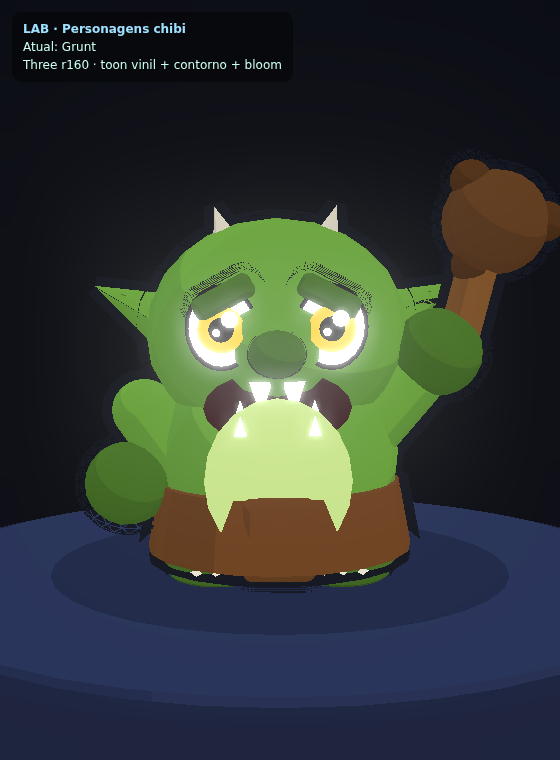
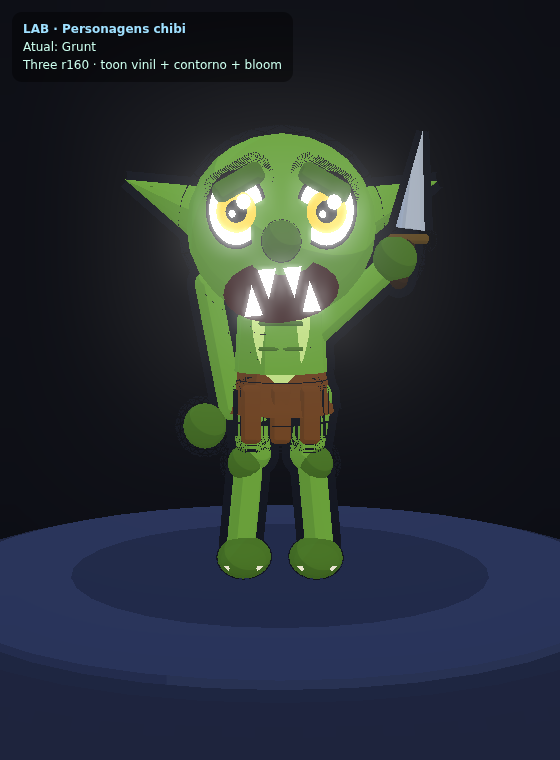
refactor(lab): Grunt mais magrelo (goblin esguio)
Feedback: estava atarracado/barril. Refeito como goblin esquálido: cabeça
grande sobre tronco em coluna fina (com costelas/peito claro), membros longos
e finos com joelhos nodosos, tanga baixa, pés compridos com garras e adaga
enferrujada erguida. Câmera reenquadrada p/ o corpo mais alto.

Verificado headless: ready, webgl2, ERROS=[]. Não toca bastion-rush/index.html.

https://claude.ai/code/session_01FsKks2LfpRXbTiAL1QZHxj

diff --git a/lab/monsters.js b/lab/monsters.js
@@ -25,87 +25,99 @@ function fangMouth(width = 0.5, color = 0x3a0d12, fangColor = 0xfdfdff) {
   return g;
 }
 
-// ════════════════════════════ GRUNT (goblin atarracado) ════════════════════════════
+// ════════════════════════════ GRUNT (goblin magrelo/esquálido) ════════════════════════════
 export function buildGrunt(opts = {}) {
   const SKIN = opts.skin ?? 0x74b03e;   // verde saturado
   const SKIN2 = opts.skin2 ?? 0x4f7d27;  // sombra/verde escuro
-  const BELLY = opts.belly ?? 0xc8e38c;  // barriga clara
+  const BELLY = opts.belly ?? 0xbfdc84;  // barriga/peito claro
   const CLOTH = opts.cloth ?? 0x7a4a22;  // tanga
-  const WOOD = 0x8a5a2b;
+  const STEEL = 0xb8c2cc;
 
   const model = new THREE.Group();
-  const HEADR = 0.6;
-  const HEADY = 1.28;
+  const HEADR = 0.5;
+  const HEADY = 1.82;   // cabeça grande no alto de um corpo magro e alongado
 
-  // ── pés/pernas atarracadas ──
+  // ── pernas finas, longas e tortas (com joelho) ──
   for (const sx of [-1, 1]) {
-    const foot = blob(0.28, 0.2, 0.34, SKIN2); foot.position.set(sx * 0.3, 0.16, 0.08); model.add(foot);
-    // dedões (garras)
+    const shin = capsule(0.08, 0.4, SKIN); shin.position.set(sx * 0.2, 0.34, 0.04);
+    shin.rotation.z = sx * 0.1; model.add(shin);
+    const thigh = capsule(0.095, 0.3, SKIN); thigh.position.set(sx * 0.17, 0.78, 0.02);
+    thigh.rotation.z = sx * -0.16; model.add(thigh);
+    const knee = ball(0.095, SKIN2); knee.position.set(sx * 0.2, 0.58, 0.05); model.add(knee);
+    // pé comprido com garras
+    const foot = blob(0.15, 0.1, 0.26, SKIN2); foot.position.set(sx * 0.2, 0.09, 0.12); model.add(foot);
     for (const k of [-1, 0, 1]) {
-      const toe = new THREE.Mesh(new THREE.ConeGeometry(0.05, 0.12, 4),
+      const toe = new THREE.Mesh(new THREE.ConeGeometry(0.04, 0.11, 4),
         new THREE.MeshBasicMaterial({ color: 0xe9e4d0, toneMapped: false }));
-      toe.position.set(sx * 0.3 + k * 0.09, 0.14, 0.4); toe.rotation.x = Math.PI / 2;
+      toe.position.set(sx * 0.2 + k * 0.08, 0.08, 0.32); toe.rotation.x = Math.PI / 2;
       toe.userData.noOutline = true; model.add(toe);
     }
   }
 
-  // ── corpo: barrigudo (ovo) ──
-  const body = blob(0.6, 0.56, 0.55, SKIN); body.position.y = 0.66; model.add(body);
-  const belly = new THREE.Mesh(new THREE.CircleGeometry(0.34, 20),
-    new THREE.MeshBasicMaterial({ color: BELLY, toneMapped: false }));
-  belly.scale.set(1, 1.15, 1); belly.position.set(0, 0.62, 0.56); belly.userData.noOutline = true; model.add(belly);
-  // tanga
-  const cloth = new THREE.Mesh(new THREE.CylinderGeometry(0.6, 0.66, 0.34, 20), vinyl(CLOTH));
-  cloth.position.y = 0.36; model.add(cloth);
-  const clothFlap = rbox(0.34, 0.4, 0.1, CLOTH, 0.05); clothFlap.position.set(0, 0.34, 0.56); model.add(clothFlap);
-
-  // ── braços curtos e grossos ──
-  const armL = capsule(0.16, 0.28, SKIN); armL.position.set(-0.58, 0.78, 0.06); armL.rotation.z = 0.6; model.add(armL);
-  const fistL = glove(0.21, SKIN2); fistL.position.set(-0.74, 0.54, 0.14); model.add(fistL);
-  // braço direito levantado com porrete
-  const armR = capsule(0.16, 0.3, SKIN); armR.position.set(0.56, 0.92, 0.08); armR.rotation.z = -0.7; model.add(armR);
-  const fistR = glove(0.22, SKIN2); fistR.position.set(0.78, 1.18, 0.12); model.add(fistR);
-
-  // porrete nodoso
-  const club = capsule(0.1, 0.7, WOOD); club.position.set(0.95, 1.5, 0.1); club.rotation.z = -0.25; model.add(club);
-  const head1 = ball(0.26, 0x6b4321); head1.position.set(1.06, 1.82, 0.1); model.add(head1);
-  for (const a of [0, 2.1, 4.2]) {
-    const knob = ball(0.1, 0x5a3719);
-    knob.position.set(1.06 + Math.cos(a) * 0.24, 1.82 + Math.sin(a) * 0.24, 0.12); model.add(knob);
+  // ── tanga puída baixa no quadril (deixa o abdômen magro à mostra) ──
+  const cloth = new THREE.Mesh(new THREE.CylinderGeometry(0.24, 0.3, 0.26, 16), vinyl(CLOTH));
+  cloth.position.y = 0.98; model.add(cloth);
+  for (const sx of [-1, 0, 1]) {
+    const rag = rbox(0.11, 0.3, 0.08, CLOTH, 0.03); rag.position.set(sx * 0.16, 0.86, 0.24); model.add(rag);
   }
 
-  // ── CABEÇA grande (chibi) ──
-  const head = ball(HEADR, SKIN); head.position.y = HEADY; head.scale.set(1.08, 0.96, 0.98); model.add(head);
+  // ── TRONCO: coluna FINA e ALTA (cintura magrela visível) ──
+  const torso = new THREE.Mesh(new THREE.CylinderGeometry(0.22, 0.26, 0.66, 18), vinyl(SKIN));
+  torso.position.set(0, 1.4, 0.05); model.add(torso);
+  const torsoTop = blob(0.25, 0.2, 0.23, SKIN); torsoTop.position.set(0, 1.66, 0.05); model.add(torsoTop);
+  // peito/abdômen claro alto e fino
+  const chest = new THREE.Mesh(new THREE.CircleGeometry(0.16, 18),
+    new THREE.MeshBasicMaterial({ color: BELLY, toneMapped: false }));
+  chest.scale.set(1, 2.4, 1); chest.position.set(0, 1.4, 0.28); chest.userData.noOutline = true; model.add(chest);
+  // costelinhas (linhas escuras)
+  for (const i of [0, 1, 2, 3]) {
+    const rib = rbox(0.24, 0.022, 0.04, SKIN2, 0.01); rib.position.set(0, 1.2 + i * 0.13, 0.28); model.add(rib);
+  }
+  // ombros ossudos pontudos
+  for (const sx of [-1, 1]) { const sh = ball(0.13, SKIN); sh.position.set(sx * 0.27, 1.66, 0.04); model.add(sh); }
+
+  // ── braços longos e finos ──
+  // esquerdo pendendo (quase até o joelho)
+  const armL = capsule(0.07, 0.66, SKIN); armL.position.set(-0.34, 1.2, 0.05);
+  armL.rotation.z = 0.2; model.add(armL);
+  const handL = glove(0.12, SKIN2); handL.position.set(-0.42, 0.78, 0.08); model.add(handL);
+  // direito erguido empunhando uma adaga enferrujada
+  const armR = capsule(0.07, 0.54, SKIN); armR.position.set(0.36, 1.42, 0.08);
+  armR.rotation.z = -0.85; model.add(armR);
+  const handR = glove(0.12, SKIN2); handR.position.set(0.62, 1.66, 0.12); model.add(handR);
+  // adaga (cabo + lâmina serrilhada)
+  const grip = capsule(0.05, 0.18, 0x3a2a1c); grip.position.set(0.66, 1.64, 0.12); grip.rotation.z = -0.2; model.add(grip);
+  const guard = rbox(0.22, 0.05, 0.08, 0x6b5224, 0.02); guard.position.set(0.69, 1.76, 0.12); model.add(guard);
+  const blade = new THREE.Mesh(new THREE.ConeGeometry(0.08, 0.5, 4), vinyl(STEEL));
+  blade.position.set(0.73, 2.06, 0.12); blade.rotation.z = -0.12; model.add(blade);
+
+  // ── CABEÇA grande (chibi) levemente projetada pra frente ──
+  const head = ball(HEADR, SKIN); head.position.set(0, HEADY, 0.08); head.scale.set(1.04, 0.96, 0.98); model.add(head);
 
   // orelhas pontudas enormes (silhueta!)
   for (const sx of [-1, 1]) {
-    const ear = cone(0.2, 0.6, SKIN, 14); ear.position.set(sx * 0.66, HEADY + 0.12, -0.05);
-    ear.rotation.z = sx * -1.15; ear.rotation.y = sx * 0.3; model.add(ear);
-    const earIn = cone(0.1, 0.4, SKIN2, 12); earIn.position.set(sx * 0.6, HEADY + 0.12, 0.02);
-    earIn.rotation.z = sx * -1.15; earIn.rotation.y = sx * 0.3; earIn.userData.noOutline = true; model.add(earIn);
+    const ear = cone(0.18, 0.62, SKIN, 14); ear.position.set(sx * 0.6, HEADY + 0.14, -0.02);
+    ear.rotation.z = sx * -1.2; ear.rotation.y = sx * 0.3; model.add(ear);
+    const earIn = cone(0.09, 0.42, SKIN2, 12); earIn.position.set(sx * 0.55, HEADY + 0.14, 0.04);
+    earIn.rotation.z = sx * -1.2; earIn.rotation.y = sx * 0.3; earIn.userData.noOutline = true; model.add(earIn);
   }
 
-  // testa/sobrancelha raivosa (bloco escuro angulado pra dentro)
+  // sobrancelha raivosa (bloco escuro angulado pra dentro)
   for (const sx of [-1, 1]) {
-    const brow = rbox(0.3, 0.12, 0.08, SKIN2, 0.04);
-    brow.position.set(sx * 0.24, HEADY + 0.2, HEADR * 0.9); brow.rotation.z = sx * -0.5; model.add(brow);
+    const brow = rbox(0.28, 0.11, 0.08, SKIN2, 0.04);
+    brow.position.set(sx * 0.22, HEADY + 0.2, HEADR * 0.9 + 0.08); brow.rotation.z = sx * -0.5; model.add(brow);
   }
-  // olhos arregalados amarelos (a fúria vem das sobrancelhas anguladas)
+  // olhos arregalados amarelos (a fúria vem das sobrancelhas)
   for (const sx of [-1, 1]) {
-    const e = eye(0.18, 0xffd23a, 'normal');
-    e.position.set(sx * 0.25, HEADY + 0.06, HEADR * 0.92); e.userData.noOutline = true; model.add(e);
+    const e = eye(0.17, 0xffd23a, 'normal');
+    e.position.set(sx * 0.23, HEADY + 0.07, HEADR * 0.92 + 0.08); e.userData.noOutline = true; model.add(e);
   }
-  // nariz bulboso
-  const nose = blob(0.13, 0.11, 0.16, SKIN2); nose.position.set(0, HEADY - 0.06, HEADR * 1.0); model.add(nose);
-  // boca com presas
-  const mouth = fangMouth(0.34); mouth.position.set(0, HEADY - 0.32, HEADR * 0.86); model.add(mouth);
+  // nariz comprido e adunco
+  const nose = blob(0.1, 0.1, 0.2, SKIN2); nose.position.set(0, HEADY - 0.08, HEADR * 0.95 + 0.12); model.add(nose);
+  // boca com presas (sorriso torto)
+  const mouth = fangMouth(0.3); mouth.position.set(0, HEADY - 0.32, HEADR * 0.84 + 0.08);
+  mouth.rotation.z = 0.08; model.add(mouth);
 
-  // par de chifrinhos pequenos no topo
-  for (const sx of [-1, 1]) {
-    const horn = cone(0.1, 0.26, 0xe9e0c8, 10); horn.position.set(sx * 0.26, HEADY + HEADR * 0.85, 0.02);
-    horn.rotation.z = sx * -0.3; model.add(horn);
-  }
-
-  outlineAll(model, 0.05);
+  outlineAll(model, 0.045);
   return { model, lights: [] };
 }

diff --git a/lab/characters.html b/lab/characters.html
@@ -42,7 +42,7 @@ import { buildGrunt } from './monsters.js';
 // registro de personagens (nome → builder + rótulo + foco de câmera)
 const CHARS = {
   hero:  { build: buildHeroMage, label: 'Mago Herói',  look: 1.35, dist: 7.4 },
-  grunt: { build: buildGrunt,    label: 'Grunt',       look: 1.0,  dist: 6.2 },
+  grunt: { build: buildGrunt,    label: 'Grunt',       look: 1.1,  dist: 6.8 },
 };
 
 const LAB = window.LAB = { ready:false, error:null, frames:0, rev:THREE.REVISION, webgl:null, who:'hero' };
